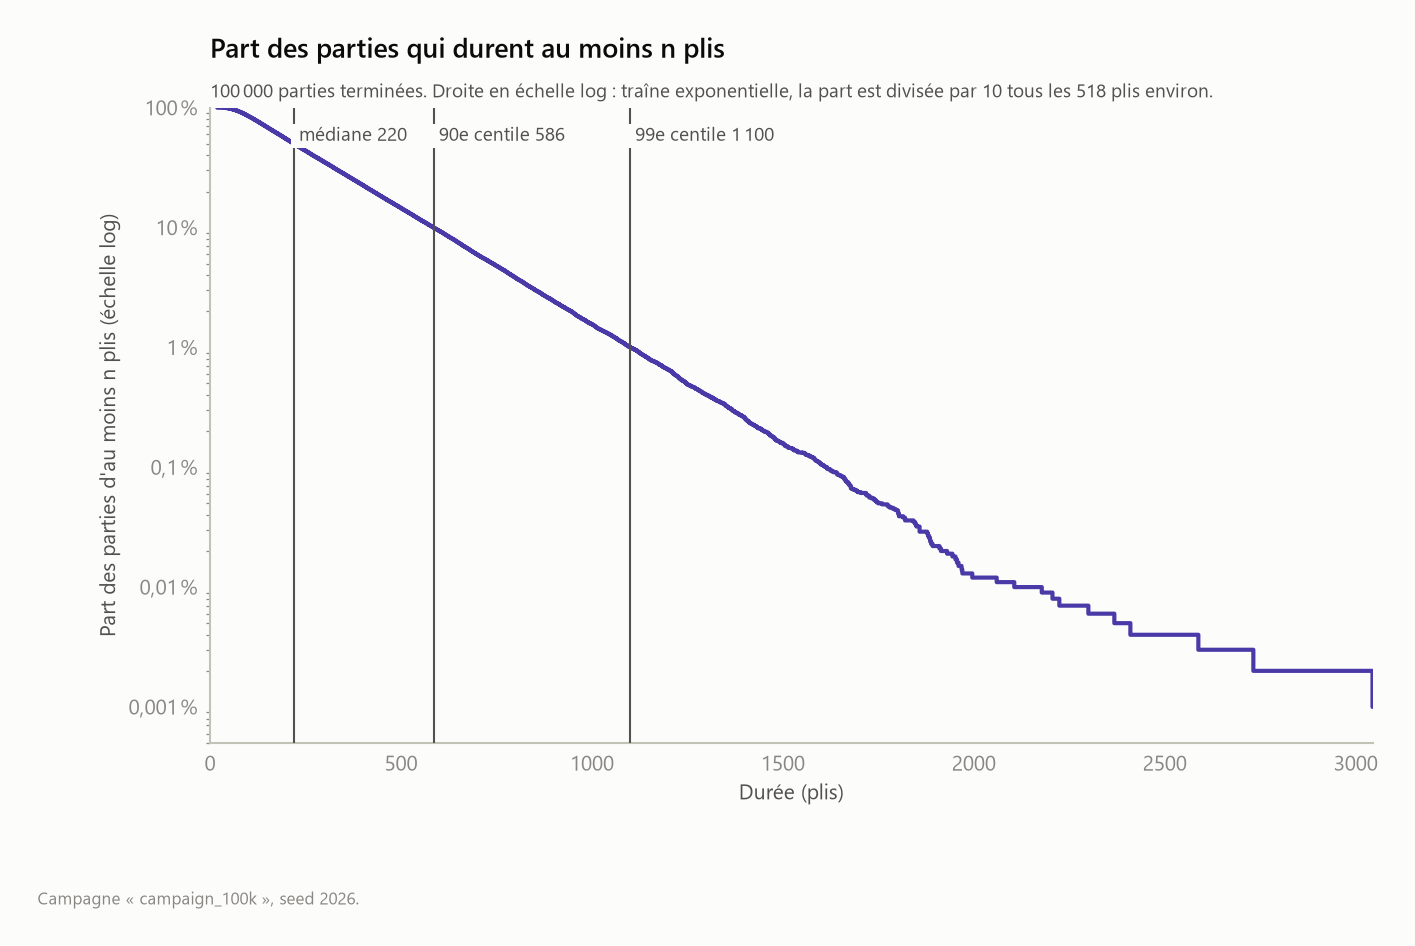
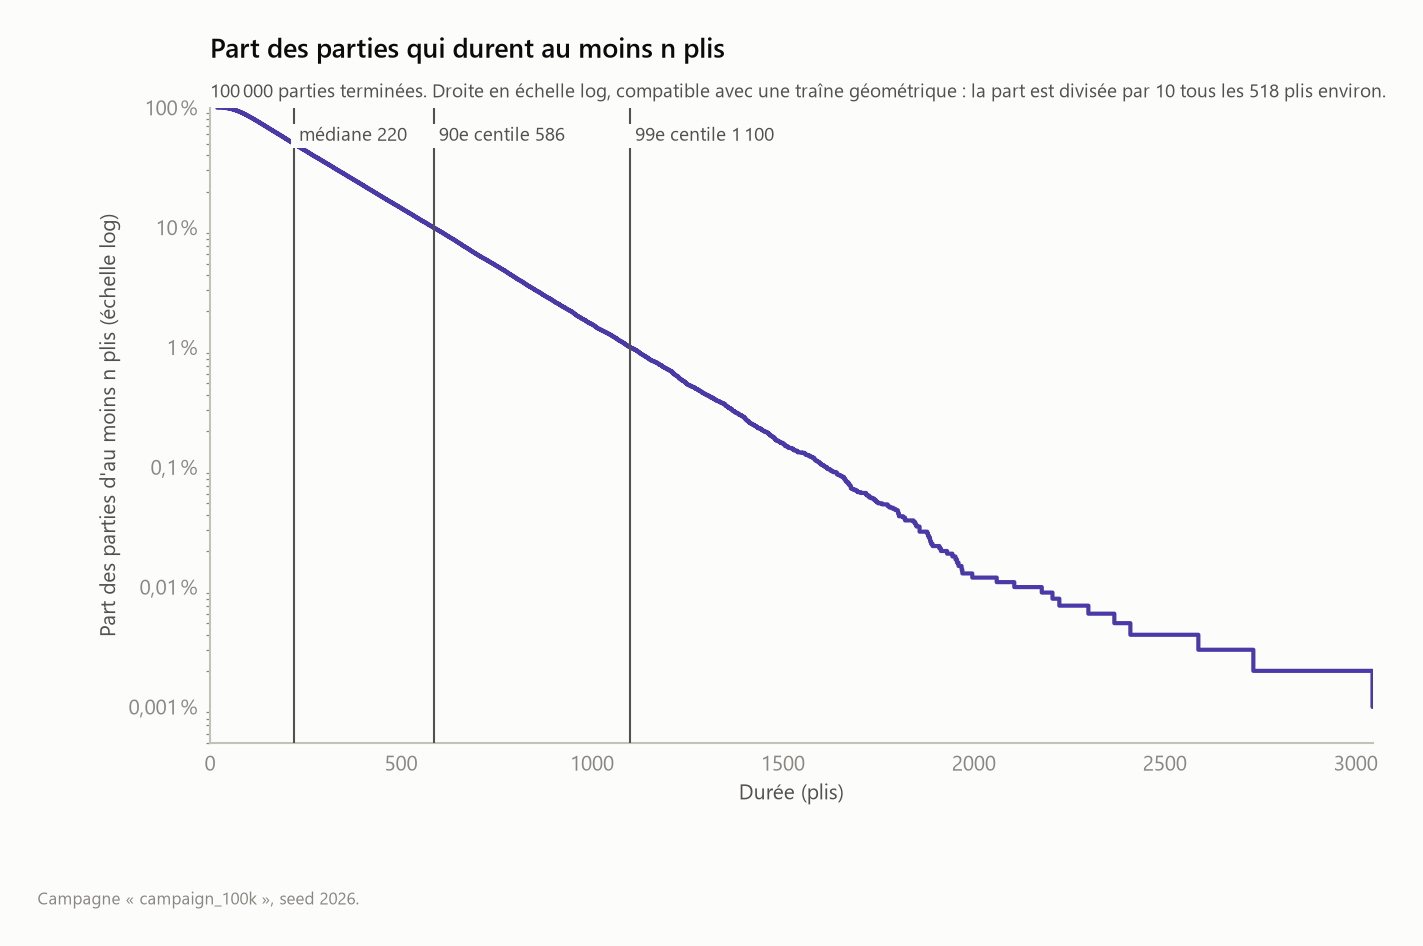
docs: analyse termination probability and its plateau

diff --git a/ANALYSE.md b/ANALYSE.md
@@ -28,6 +28,8 @@ Chaque donne est tirée d'un flux aléatoire propre, dérivé de la seed de camp
 - **Moyennes** : intervalle normal à 95 %, moyenne plus ou moins 1,96 écart-type divisé par la racine de n. Avec 100 000 parties, l'approximation est largement justifiée malgré l'asymétrie des distributions.
 - **Médianes** : intervalle à 95 % par bootstrap, 2 000 rééchantillonnages, seed de rééchantillonnage fixée à 0.
 - **Traîne des durées** : ajustement linéaire du logarithme de la part des parties d'au moins n plis, entre la médiane et le 99,9e centile. Au-delà, trop peu de parties pour que la courbe soit stable.
+- **Probabilité de terminaison** : pour chaque durée k déjà jouée, part des parties encore en cours après k plis qui se terminent au plus tard au pli k + 100, avec un intervalle de Wilson à 95 %. La courbe s'arrête quand moins de 200 parties restent en cours.
+- **Distribution quasi stationnaire** : l'écart de cartes des parties encore en cours est relevé à des plis de contrôle en rejouant toutes les parties. Ces relevés portent sur les mêmes parties et ne sont donc pas indépendants. Les comparaisons avec la référence k = 300 se font par bootstrap au niveau des parties (2 000 rééchantillonnages, seed 0), qui donne une taille d'effet et son intervalle à 95 %. Un khi-deux d'homogénéité sur deux moitiés disjointes des parties (seed de partage 1) sert de contrôle.
 - **Partie typique** : la partie terminée dont la durée est la plus proche de la médiane, et à égalité celle d'indice le plus petit. La médiane est préférée à la moyenne car la distribution des durées a une longue traîne à droite (section 4).
 
 ## 3. Issue des parties
@@ -46,7 +48,7 @@ Chaque donne est tirée d'un flux aléatoire propre, dérivé de la seed de camp
 
 - Aucune partie infinie sur 100 000. On peut seulement affirmer que leur proportion est inférieure à 0,0038 % environ, soit moins d'une partie sur 26 000, avec ces règles. Mesurer une fréquence aussi faible demandera des campagnes beaucoup plus grandes.
 - Le plafond de 100 000 plis n'a jamais servi : la partie la plus longue dure 3 044 plis. Il pourra être abaissé sans risque lorsque H5 sera tranchée.
-- Aucun avantage mesurable pour l'un ou l'autre joueur : l'intervalle de confiance de chaque joueur contient 50 %. C'est attendu, les deux mains étant tirées de manière symétrique.
+- Les données ne mettent pas en évidence d'avantage pour l'un ou l'autre joueur : les intervalles de confiance contiennent 50 %. Cela ne démontre pas l'absence de tout avantage, seulement qu'aucun écart n'est détecté avec cet échantillon. C'est le résultat attendu, les deux mains étant tirées de manière symétrique.
 
 ## 4. Durée des parties
 
@@ -83,8 +85,8 @@ Durée en plis, sur les 100 000 parties terminées :
 
 **Observations :**
 
-- En échelle logarithmique, la part des parties d'au moins n plis décroît en ligne droite de la médiane jusqu'à environ 2 000 plis : la traîne est exponentielle. Une partie sur dix dépasse 586 plis, une sur cent dépasse 1 100 plis, une sur mille dépasse environ 1 600 plis.
-- Une traîne exponentielle signifie qu'une partie longue n'a pas de « mémoire » : quelle que soit la durée déjà écoulée, la probabilité qu'elle dure encore 518 plis de plus reste d'environ 10 %. Ce point est une lecture de la courbe, à confirmer par un test d'ajustement.
+- En échelle logarithmique, la part des parties d'au moins n plis décroît en ligne droite de la médiane jusqu'à environ 2 000 plis : la traîne est compatible avec un comportement géométrique, l'équivalent discret d'une loi exponentielle pour une durée comptée en plis. Une partie sur dix dépasse 586 plis, une sur cent dépasse 1 100 plis, une sur mille dépasse environ 1 600 plis.
+- Un comportement géométrique signifie que, dans cette phase, le risque de terminaison par pli est approximativement constant : sachant que la partie a déjà duré k plis, la probabilité qu'elle dure encore 518 plis est approximativement la même, environ 10 %, quel que soit k. La section 6 l'examine directement : passé 100 plis, la probabilité de finir dans les 100 plis suivants ne varie pas de façon détectable et reste autour de 36 %.
 - Au-delà de 2 000 plis, la courbe ne repose plus que sur une dizaine de parties et devient irrégulière.
 
 ### Partie typique
@@ -146,22 +148,149 @@ La distribution a la même forme que celle des durées, ce qui est attendu : plu
 
 **Point à vérifier :** sur l'ensemble des parties, on compte 7,72 % de batailles par pli. Si les deux cartes retournées étaient tirées au hasard dans le paquet, une égalité aurait une probabilité de 3/51, soit 5,88 %. La distribution par partie est nettement centrée au-dessus de cette référence. Cet écart suggère que l'ordre de ramassage fixe crée des corrélations entre les paquets des deux joueurs. Il reste à le confirmer par une mesure directe, pli par pli, et à le comparer avec les autres ordres de ramassage.
 
-## 6. Limites actuelles
+## 6. Probabilité de terminaison
+
+On mesure ici, pour une partie qui a déjà duré k plis, la probabilité qu'elle se termine dans les 100 plis suivants : P(T ≤ k + 100 | T > k). Elle se calcule sur les 100 000 durées enregistrées : parmi les parties encore en cours après k plis, la part de celles qui finissent au plus tard au pli k + 100.
+
+![Probabilité qu'une partie se termine dans les 100 plis suivants](figures/termination_within_100.png)
+
+| Plis déjà joués (k) | Parties encore en cours | Terminées dans les 100 plis suivants | Probabilité | IC 95 % |
+|---|---|---|---|---|
+| 0 | 100 000 | 14 924 | 14,92 % | [14,70 % ; 15,15 %] |
+| 100 | 85 076 | 30 514 | 35,87 % | [35,55 % ; 36,19 %] |
+| 200 | 54 562 | 19 566 | 35,86 % | [35,46 % ; 36,26 %] |
+| 300 | 34 996 | 12 446 | 35,56 % | [35,06 % ; 36,07 %] |
+| 400 | 22 550 | 8 040 | 35,65 % | [35,03 % ; 36,28 %] |
+| 500 | 14 510 | 5 141 | 35,43 % | [34,66 % ; 36,21 %] |
+| 600 | 9 369 | 3 446 | 36,78 % | [35,81 % ; 37,76 %] |
+| 700 | 5 923 | 2 126 | 35,89 % | [34,68 % ; 37,12 %] |
+| 800 | 3 797 | 1 373 | 36,16 % | [34,65 % ; 37,70 %] |
+| 900 | 2 424 | 870 | 35,89 % | [34,01 % ; 37,82 %] |
+| 1 000 | 1 554 | 555 | 35,71 % | [33,37 % ; 38,13 %] |
+| 1 100 | 999 | 349 | 34,93 % | [32,04 % ; 37,94 %] |
+| 1 200 | 650 | 250 | 38,46 % | [34,80 % ; 42,26 %] |
+| 1 300 | 400 | 145 | 36,25 % | [31,69 % ; 41,07 %] |
+| 1 400 | 255 | 99 | 38,82 % | [33,05 % ; 44,93 %] |
+
+**Observations :**
+
+- **Au départ, une partie a 14,9 % de chances de finir en moins de 100 plis.** Cette probabilité monte rapidement pendant les premiers plis : 25 % à k = 30, 31 % à k = 50, 35 % à k = 90.
+- **À partir d'environ 100 plis joués, aucune variation de la probabilité avec la durée déjà écoulée n'est détectée.** Elle reste autour de 36 % jusqu'à 1 400 plis, et tous les intervalles de confiance du tableau contiennent 35,9 %, la valeur attendue d'un comportement géométrique ajusté sur la traîne de la section 4. À la précision mesurée, une partie qui a déjà duré 1 000 plis a les mêmes chances de finir bientôt qu'une partie qui en a duré 100.
+- Cette mesure, qui ne passe par aucun ajustement, est compatible avec un comportement géométrique de la traîne : passé les 100 premiers plis, le risque de terminaison par pli paraît approximativement constant. Seule la phase initiale se distingue, sans doute parce qu'aucun joueur ne peut perdre ses 26 cartes en quelques plis.
+- Au-delà de 1 100 plis, la courbe oscille davantage (de 33 % à 41 %) car il reste moins de 1 000 parties en cours. Les intervalles s'élargissent en conséquence et restent compatibles avec 36 %.
+- Les valeurs de la courbe ne sont pas indépendantes entre elles : les fenêtres de 100 plis se chevauchent d'un k au suivant, et ce sont les mêmes parties qui sont comptées. Les intervalles de confiance sont valables point par point, pas pour la courbe entière.
+
+### Pourquoi un palier à 36 %
+
+**Le calcul.** Si chaque pli a la même probabilité *h* d'être le dernier, la probabilité de finir dans les 100 plis suivants vaut 1 − (1 − *h*)¹⁰⁰, quelle que soit la durée déjà jouée. La traîne mesurée en section 4 (part divisée par 10 tous les 518 plis) donne *h* ≈ 0,44 % par pli, d'où 1 − (1 − 0,0044)¹⁰⁰ ≈ 35,9 %. Le palier et la traîne géométrique sont donc deux lectures d'un même comportement. Une troisième lecture se vérifie sur les données : une fois passée la phase initiale, le nombre moyen de plis restant à jouer devient lui aussi approximativement indépendant de l'âge de la partie.
+
+| Plis déjà joués | Parties encore en cours | Plis restant à jouer, en moyenne |
+|---|---|---|
+| 0 | 100 000 | 289 |
+| 100 | 85 076 | 227 |
+| 300 | 34 996 | 227 |
+| 600 | 9 369 | 223 |
+| 1 000 | 1 554 | 223 |
+
+**L'explication proposée.** On peut voir une partie comme une marche de l'écart de cartes entre −52 et +52, qui s'arrête quand elle touche un bord. Au départ, toutes les parties sont à égalité, 26 contre 26, loin des deux bords : finir vite est presque impossible, d'où les 15 % de départ. Au fil des ramassages, les paquets se brassent et la partie perd la trace de la donne initiale. Selon cette hypothèse, la répartition des situations parmi les parties encore en cours tend vers une forme stable, appelée **distribution quasi stationnaire**. Une fois cette forme atteinte, une partie en cours au pli 300 ressemblerait statistiquement à une partie en cours au pli 1 000, et toutes deux auraient la même probabilité de finir bientôt. La hauteur du palier dépend des règles : avec d'autres règles, il serait à une autre valeur.
+
+Le jeu étant entièrement déterministe, parler de marche au hasard est une approximation. Elle suppose que l'ordre des paquets se comporte comme un mélange aléatoire après une centaine de plis. Cette hypothèse a deux conséquences testables, avec lesquelles les données sont compatibles, comme le montre la suite.
+
+**Méthode de comparaison.** Toutes les parties ont été rejouées pour relever leur écart de cartes après 10, 25, 50, 100, 200, 300, 600 et 1 000 plis, quand elles étaient encore en cours. Ces relevés ne sont pas indépendants d'un pli de contrôle à l'autre : une partie en cours à 600 plis l'est aussi à 100, 200 et 300. Un test classique comme le khi-deux d'homogénéité, qui suppose des échantillons indépendants, n'est donc pas valide pour les comparer. La dépendance rend en outre les échantillons plus semblables qu'ils ne le seraient, ce qui biaiserait le test en faveur de la stabilité. On procède donc autrement :
+
+- **Bootstrap au niveau des parties** (méthode principale). On tire 2 000 fois 100 000 parties avec remise, et chaque partie tirée apporte tous ses relevés. Pour chaque tirage, on recalcule la différence entre un pli de contrôle k et la référence k = 300. Ce bootstrap au niveau des parties conserve la dépendance entre les relevés successifs d'une même partie.
+- **Moitiés disjointes** (contrôle). Les parties sont partagées au hasard en deux moitiés. Le pli k est lu sur la première, la référence k = 300 sur la seconde. Les deux échantillons étant indépendants, le khi-deux d'homogénéité redevient valide, au prix d'une puissance plus faible.
+
+Le résultat est exprimé en **taille d'effet avec son intervalle**, et non par une p-valeur seule : une p-valeur élevée dit qu'aucune différence n'a été détectée, pas que les répartitions sont identiques. L'intervalle, lui, borne la différence possible.
+
+**Observation 1 : la répartition de l'écart de cartes parmi les parties en cours cesse de dépendre de k.**
+
+![Écart de cartes des parties encore en cours après k plis](figures/ongoing_delta_distribution.png)
+
+![Écart de cartes moyen des parties encore en cours](figures/ongoing_delta_mean.png)
+
+![Répartition de l'écart de cartes : différence avec les parties en cours à 300 plis](figures/ongoing_delta_differences.png)
+
+Les classes d'écart absolu sont 0-6, 8-14, 16-22, 24-30, 32-38 et 40 et plus. Les différences sont calculées par rapport à k = 300.
+
+| Plis déjà joués | Parties en cours | Écart absolu moyen | Différence d'écart moyen, IC 95 % bootstrap | Classes dont l'IC exclut 0 | Plus grande borne absolue des IC à 95 % | Khi-deux, moitiés disjointes, p-valeur |
+|---|---|---|---|---|---|---|
+| 10 | 100 000 | 6,08 | −12,43 [−12,56 ; −12,31] | 6 / 6 | 38,7 pts | < 10⁻³⁰⁰ |
+| 25 | 99 987 | 9,96 | −8,55 [−8,68 ; −8,42] | 6 / 6 | 30,6 pts | < 10⁻³⁰⁰ |
+| 50 | 98 556 | 14,57 | −3,94 [−4,07 ; −3,80] | 6 / 6 | 7,5 pts | < 10⁻³⁰⁰ |
+| 100 | 85 076 | 17,95 | −0,55 [−0,69 ; −0,40] | 5 / 6 | 1,5 pt | 3 × 10⁻⁵ |
+| 200 | 54 562 | 18,57 | +0,06 [−0,09 ; +0,22] | 0 / 6 | 0,7 pt | 0,49 |
+| 300 | 34 996 | 18,51 | référence | | | |
+| 600 | 9 369 | 18,66 | +0,15 [−0,12 ; +0,42] | 0 / 6 | 1,4 pt | 0,43 |
+| 1 000 | 1 554 | 18,74 | +0,23 [−0,42 ; +0,85] | 0 / 6 | 3,0 pts | 0,60 |
+
+La colonne « plus grande borne absolue des IC à 95 % » donne, parmi les six classes, la plus grande valeur absolue des bornes des intervalles bootstrap sur la différence de part. Elle ne constitue pas une borne simultanée à 95 % sur les six classes.
+
+- **Pendant les 50 premiers plis**, les parties sont encore groupées près de l'égalité et la répartition change fortement.
+- **À 200 plis**, l'écart moyen ne diffère de celui à 300 plis que de +0,06 carte, avec un intervalle de [−0,09 ; +0,22]. Pour chacune des 6 classes, l'intervalle de confiance à 95 % de la différence de part reste compris entre −0,7 et +0,7 point de pourcentage. La répartition paraît stabilisée à cette précision.
+- **À 600 et 1 000 plis**, aucune différence n'est détectée non plus. Les bornes sont plus larges (1,4 et 3,0 points) parce qu'il reste moins de parties en cours : les données ne montrent pas de mouvement de la répartition, mais la précision est moindre.
+- **À 100 plis**, la répartition est déjà très proche mais encore légèrement plus serrée : écart moyen inférieur de 0,55 carte, IC [−0,69 ; −0,40], et 5 classes sur 6 dont l'intervalle exclut 0. Le brassage n'est donc pas tout à fait terminé à 100 plis. C'est cohérent avec la courbe de terminaison, qui atteint son palier entre 90 et 110 plis.
+- **Le contrôle par moitiés disjointes** donne exactement les mêmes conclusions : différence nette jusqu'à 100 plis, aucune différence détectée à 200, 600 et 1 000 plis.
+- **Un effet de parité** : chaque pli fait passer un nombre impair de cartes d'un joueur à l'autre, 1 pour un pli simple, 3 pour une bataille, 5 pour une bataille en chaîne. L'écart alterne donc d'un pli à l'autre entre un multiple de 4 et un multiple de 4 plus 2, d'où des classes de 4 cartes dans la première figure.
+
+**Observation 2 : la probabilité de finir bientôt dépend de la situation, pas du temps déjà joué.**
+
+![Probabilité de finir dans les 100 plis suivants, selon l'écart de cartes](figures/termination_by_delta_100.png)
+
+| Écart absolu | k = 100 | k = 200 | k = 300 | k = 600 | k = 1 000 |
+|---|---|---|---|---|---|
+| 0 à 6 | 21,0 % | 19,9 % | 19,9 % | 21,5 % | 21,7 % |
+| 8 à 14 | 23,7 % | 22,6 % | 23,2 % | 23,7 % | 24,5 % |
+| 16 à 22 | 30,6 % | 30,3 % | 29,9 % | 30,6 % | 30,5 % |
+| 24 à 30 | 43,0 % | 42,4 % | 41,9 % | 43,5 % | 36,3 % |
+| 32 à 38 | 58,3 % | 57,7 % | 56,3 % | 57,3 % | 55,9 % |
+| 40 et plus | 79,7 % | 78,3 % | 78,0 % | 79,6 % | 76,3 % |
+
+Les barres de la figure ci-dessus sont des intervalles de Wilson, valables pour chaque point pris isolément. La comparaison entre plis de contrôle se fait sur la figure suivante, par bootstrap des parties :
+
+![Probabilité de finir dans les 100 plis : différence avec 300 plis, à écart égal](figures/termination_by_delta_differences_100.png)
+
+| Écart absolu | k = 100 | k = 200 | k = 600 | k = 1 000 |
+|---|---|---|---|---|
+| 0 à 6 | +1,1 [−0,1 ; +2,3] | −0,1 [−1,3 ; +1,2] | +1,6 [−0,7 ; +3,6] | +1,8 [−2,8 ; +6,6] |
+| 8 à 14 | +0,5 [−0,6 ; +1,5] | −0,6 [−1,9 ; +0,5] | +0,4 [−1,5 ; +2,5] | +1,3 [−3,0 ; +5,9] |
+| 16 à 22 | +0,8 [−0,5 ; +2,0] | +0,4 [−0,9 ; +1,8] | +0,8 [−1,5 ; +2,9] | +0,6 [−4,6 ; +5,6] |
+| 24 à 30 | +1,1 [−0,5 ; +2,6] | +0,5 [−1,2 ; +2,0] | +1,6 [−1,2 ; +4,2] | −5,6 [−11,6 ; +0,3] |
+| 32 à 38 | +2,0 [+0,2 ; +3,7] | +1,4 [−0,5 ; +3,3] | +1,1 [−2,2 ; +4,2] | −0,4 [−7,7 ; +6,6] |
+| 40 et plus | +1,7 [−0,2 ; +3,5] | +0,3 [−1,8 ; +2,2] | +1,5 [−1,7 ; +5,0] | −1,7 [−9,2 ; +5,5] |
+
+Différences en points de pourcentage avec k = 300, intervalles de confiance à 95 % par bootstrap des parties.
+
+- **La probabilité de finir dans les 100 plis suivants dépend fortement de l'écart** : environ 20 % quand les joueurs sont proches, près de 80 % quand l'un d'eux a au moins 40 cartes d'avance.
+- **Pour un écart donné, aucune variation systématique avec le temps déjà joué n'est détectée à partir de 200 plis.** À 200, 600 et 1 000 plis, aucun des 18 intervalles n'exclut 0. À 200 plis, où l'échantillon est grand, les différences sont bornées à environ 2 points dans les classes les plus fournies. La valeur de 36,3 % à k = 1 000 pour un écart de 24 à 30 est compatible avec la référence : son intervalle, [−11,6 ; +0,3], contient 0.
+- **À 100 plis, un léger excès subsiste** : toutes les différences sont positives, de +0,5 à +2,0 points, et celle de la classe 32 à 38 est la seule dont l'intervalle exclut 0, avec [+0,2 ; +3,7]. Avec 18 comparaisons sans correction, cela constitue un signal faible, mais compatible avec une persistance d'information à 100 plis : à écart de cartes égal, une partie qui n'a joué que 100 plis finirait un peu plus vite, parce que l'ordre des cartes dans les paquets garderait un peu de la trace de la donne. Cet effet n'est plus détecté à 200 plis.
+
+**Conclusion.** À partir de 200 plis, ni la répartition de l'écart de cartes parmi les parties en cours, ni la probabilité de finir à écart donné ne varient de façon détectable, avec une méthode qui conserve la dépendance entre relevés. La stabilisation de ces deux indicateurs est cohérente avec le palier observé à 36 %. Elle fournit un mécanisme plausible pour expliquer pourquoi la probabilité moyenne de terminaison cesse d'évoluer sensiblement après la phase initiale. Cette interprétation reste partielle, car l'écart de cartes ne décrit pas à lui seul l'état complet des deux paquets. Le palier est déjà presque atteint à 100 plis, alors que le brassage n'y paraît pas tout à fait terminé. C'est probablement parce que les deux effets résiduels observés à ce stade se compensent en partie : des parties un peu plus serrées, qui devraient finir moins vite, mais qui, à écart égal, finissent un peu plus vite. Cette compensation n'est pas mesurée directement. Ce qui reste à expliquer est la valeur de *h* elle-même, qui dépend des règles et de la façon dont l'ordre de ramassage brasse les paquets.
+
+**Réserves.**
+
+- Il s'agit d'une stabilisation observée et bornée par des intervalles, pas d'une égalité démontrée. À 1 000 plis, les intervalles restent larges, de 3 à 6 points, faute de parties.
+- Comparer 7 plis de contrôle et 6 classes multiplie les comparaisons, sans correction. Quelques intervalles excluant 0 par hasard seraient attendus, mais le schéma observé est net : tout avant 100 plis, rien à partir de 200.
+- L'écart de cartes ne résume pas toute la situation : l'ordre des cartes compte aussi, comme le montre le léger excès à 100 plis, et il n'est pas mesuré ici.
+
+## 7. Limites actuelles
 
 - Une seule campagne, avec un seul jeu de règles : aucun résultat ne dit encore rien sur l'effet des hypothèses H1 à H3.
 - 100 000 parties ne suffisent pas pour observer des parties infinies si leur fréquence est inférieure à une sur quelques dizaines de milliers.
 - Les statistiques des batailles sont agrégées par partie. La fréquence des égalités pli par pli n'est pas encore mesurée directement, et le taux de 7,72 % mélange premières égalités et égalités en chaîne.
-- Le caractère exponentiel de la traîne est une lecture graphique, pas encore un test statistique.
+- Les données sont compatibles avec un comportement géométrique de la traîne, ce que soutiennent la probabilité de terminaison conditionnelle et la stabilisation de l'écart de cartes des parties en cours (section 6). Aucun test d'ajustement formel n'a encore été fait.
+- L'explication par la distribution quasi stationnaire ne s'appuie que sur l'écart de cartes. L'ordre des cartes dans les paquets n'est pas étudié, alors que le léger excès de terminaison observé à 100 plis montre qu'il compte encore à ce stade.
 
-## 7. Pistes pour la suite
+## 8. Pistes pour la suite
 
-- Tester formellement l'ajustement exponentiel de la traîne des durées.
+- Tester formellement l'ajustement géométrique de la traîne des durées.
+- Expliquer la valeur du taux de fin par pli (0,44 %) à partir des règles, et mesurer comment il varie avec les variantes H1 à H3.
 - Mesurer la proportion de parties infinies et la structure des cycles, sur une campagne beaucoup plus grande.
 - Comprendre l'excès de batailles par rapport au tirage indépendant.
 - Étudier le lien entre la main initiale et l'issue : nombre d'As, force moyenne, position des grosses cartes.
 - Mesurer l'influence des variantes de règles H1 à H3.
 
-## 8. Reproduire les résultats
+## 9. Reproduire les résultats
 
 Depuis la racine du projet, avec l'environnement `.venv` :
 
@@ -173,6 +302,9 @@ PYTHONPATH=src .venv/Scripts/python analysis/outcomes.py --name campaign_100k
 PYTHONPATH=src .venv/Scripts/python analysis/durations.py --name campaign_100k
 PYTHONPATH=src .venv/Scripts/python analysis/battles.py --name campaign_100k
 PYTHONPATH=src .venv/Scripts/python analysis/typical_game.py --name campaign_100k
+PYTHONPATH=src .venv/Scripts/python analysis/termination.py --name campaign_100k
+PYTHONPATH=src .venv/Scripts/python -m bataille.simulate snapshots --name campaign_100k --tricks 10 25 50 100 200 300 600 1000
+PYTHONPATH=src .venv/Scripts/python analysis/quasi_stationary.py --name campaign_100k
 ```
 
-La campagne de 100 000 parties prend environ une minute et demie.
+La campagne de 100 000 parties prend environ une minute et demie, le relevé des instantanés un peu moins de deux minutes.
